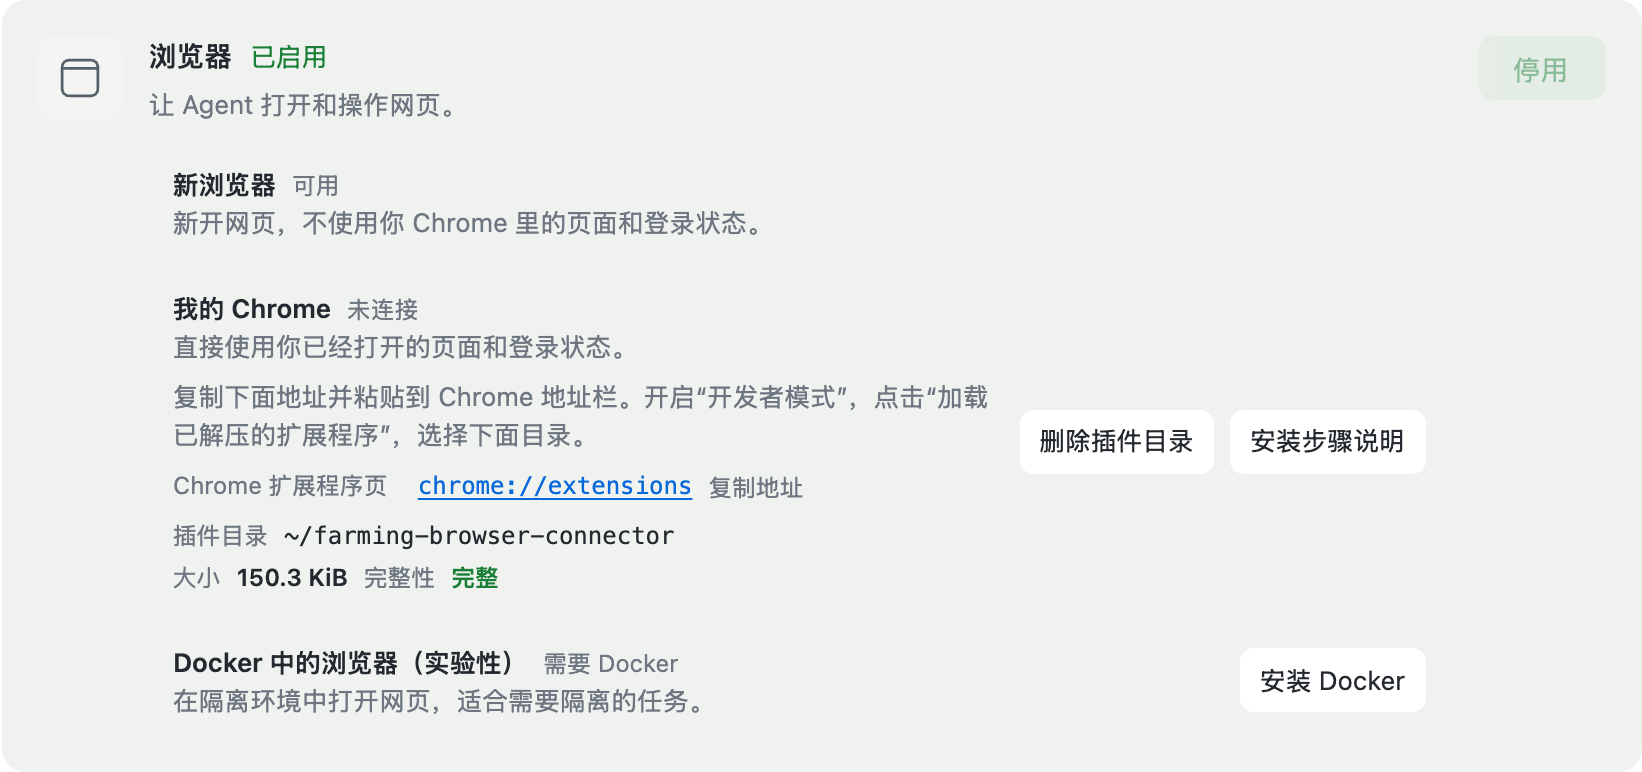
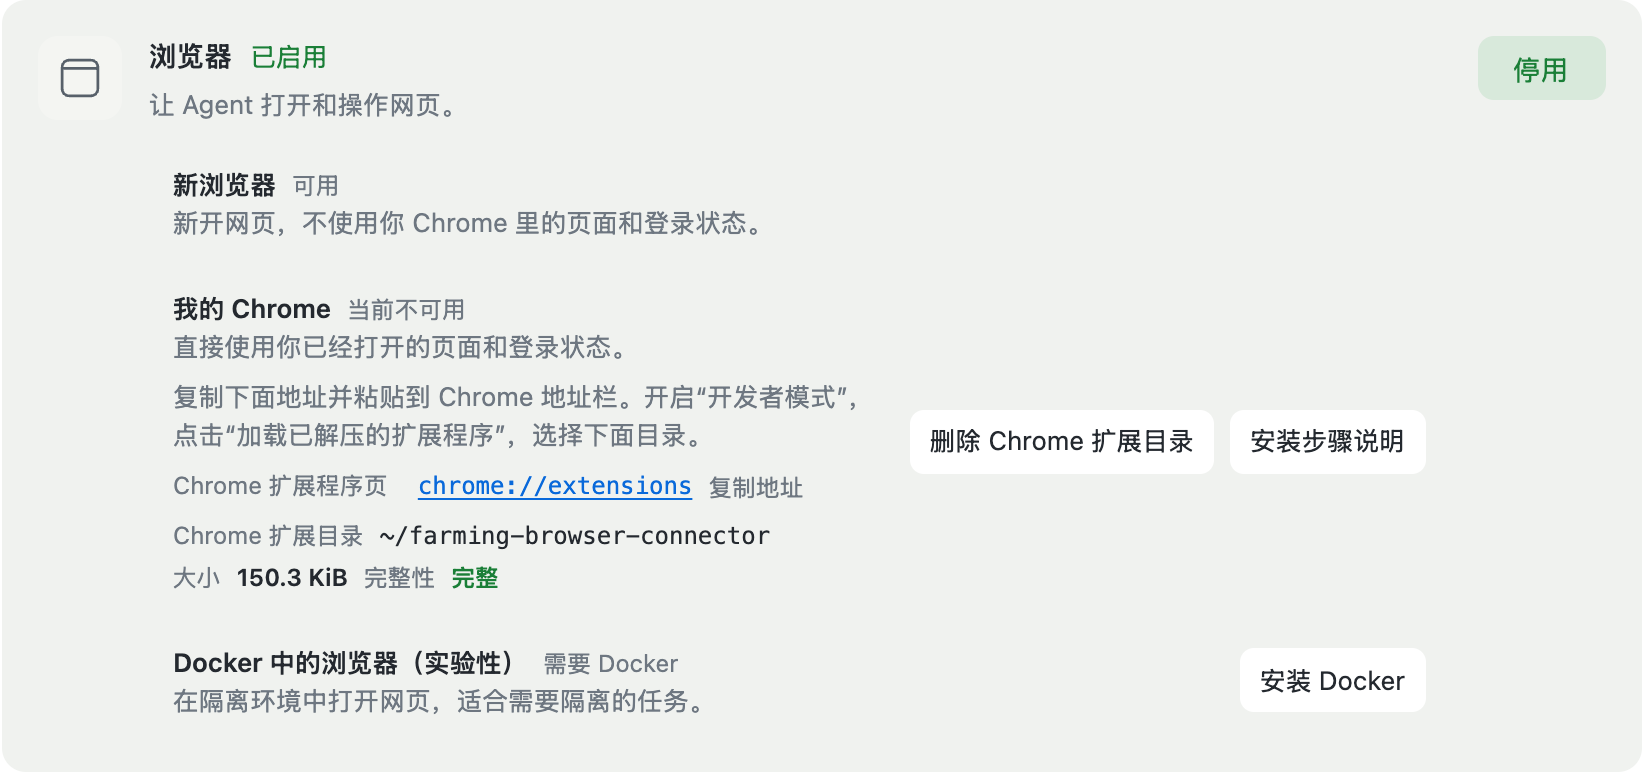
feat(plugins): auto-detect Chrome connector availability

diff --git a/src/components/code/PluginsPanel.tsx b/src/components/code/PluginsPanel.tsx
@@ -264,11 +264,14 @@ function pluginCopy(language: UiLanguage) {
       : 'Opens webpages in an isolated environment for tasks that need separation.',
     browserChoice: zh ? '浏览器方式' : 'Browser options',
     ready: zh ? '可用' : 'Available',
-    notReady: zh ? '未连接' : 'Not connected',
-    prepareConnectorDirectory: zh ? '准备插件目录' : 'Prepare extension folder',
-    removeConnectorDirectory: zh ? '删除插件目录' : 'Remove extension folder',
+    notReady: zh ? '当前不可用' : 'Currently unavailable',
+    prepareConnectorDirectory: zh ? '准备 Chrome 扩展目录' : 'Prepare Chrome extension folder',
+    removeConnectorDirectory: zh ? '删除 Chrome 扩展目录' : 'Remove Chrome extension folder',
+    confirmRemoveConnectorDirectory: zh
+      ? '删除后，Chrome 中已加载的 Farming Browser Connector 将无法继续使用。请先在 Chrome 扩展程序页删除扩展。仍要删除目录吗？'
+      : 'Removing this folder makes the loaded Farming Browser Connector unavailable in Chrome. Remove the extension from Chrome first. Remove the folder anyway?',
     connectorGuide: zh ? '安装步骤说明' : 'Installation steps',
-    connectorDirectory: zh ? '插件目录' : 'Extension folder',
+    connectorDirectory: zh ? 'Chrome 扩展目录' : 'Chrome extension folder',
     connectorExtensionsPage: zh ? 'Chrome 扩展程序页' : 'Chrome Extensions page',
     connectorCopyAddress: zh ? '复制地址' : 'Copy address',
     connectorAddressCopied: zh ? '已复制' : 'Copied',
@@ -308,7 +311,7 @@ function pluginCopy(language: UiLanguage) {
     enable: zh ? '启用' : 'Enable',
     disable: zh ? '停用' : 'Disable',
     saveFailed: zh ? '浏览器插件设置保存失败' : 'Failed to save Browser plugin settings',
-    computer: 'Computer Use',
+    computer: zh ? 'Computer Use（实验性）' : 'Computer Use (Experimental)',
     computerDescription: zh
       ? '让 Agent 查看并操作桌面，你可以在 Farming 中观察或接管。'
       : 'Let Agents see and operate desktops that you can observe or take over in Farming.',
@@ -769,10 +772,16 @@ export function PluginsPanel({
   }, [capability])
 
   useEffect(() => {
+    if (activeTab !== 'farming') return
     let active = true
     let timer: number | undefined
     setBrowserExtensionStatusError('')
+    const schedule = () => {
+      if (!active || document.visibilityState !== 'visible') return
+      timer = window.setTimeout(() => void load(), 2000)
+    }
     const load = async () => {
+      if (!active || document.visibilityState !== 'visible') return
       try {
         const response = await fetch(appPath('/api/browsers/extension'), { headers: { Accept: 'application/json' } })
         const data = await response.json().catch(() => ({})) as BrowserExtensionCapability & { error?: string }
@@ -792,15 +801,22 @@ export function PluginsPanel({
           caught instanceof Error ? caught.message : copy.extensionStatusFailed,
         )
       } finally {
-        if (active) timer = window.setTimeout(() => void load(), 2000)
+        schedule()
       }
     }
+    const handleVisibilityChange = () => {
+      if (timer !== undefined) window.clearTimeout(timer)
+      timer = undefined
+      if (document.visibilityState === 'visible') void load()
+    }
+    document.addEventListener('visibilitychange', handleVisibilityChange)
     void load()
     return () => {
       active = false
       if (timer !== undefined) window.clearTimeout(timer)
+      document.removeEventListener('visibilitychange', handleVisibilityChange)
     }
-  }, [copy.extensionStatusFailed, onRefreshCapability])
+  }, [activeTab, copy.extensionStatusFailed, onRefreshCapability])
 
   useEffect(() => {
     if (!computerCapability) return
@@ -1068,6 +1084,7 @@ export function PluginsPanel({
   const updateBrowserExtensionDirectory = async () => {
     if (preparingBrowserExtension) return
     const remove = browserExtensionInstalled
+    if (remove && !window.confirm(copy.confirmRemoveConnectorDirectory)) return
     setPreparingBrowserExtension(true)
     setError('')
     try {

diff --git a/tests/e2e/browser-resources.spec.ts b/tests/e2e/browser-resources.spec.ts
@@ -1260,9 +1260,10 @@ test('uses Farming dark colors for the Browser source menu', async ({ page }) =>
 test('shows concurrent Browser sources and existing Chrome setup', async ({ page }, testInfo) => {
   const connectorDirectoryActions: string[] = []
   let connectorDirectoryPrepared = false
+  let connectorConnected = false
   const connectorCapability = () => ({
     installed: connectorDirectoryPrepared,
-    connected: false,
+    connected: connectorConnected,
     extensionPath: '/Users/farming/farming-browser-connector',
     sizeBytes: 196_608,
     integrity: connectorDirectoryPrepared ? 'valid' : 'missing',
@@ -1301,10 +1302,10 @@ test('shows concurrent Browser sources and existing Chrome setup', async ({ page
   const myChrome = browserSources.locator('.code-plugin-browser-source').filter({ hasText: 'My Chrome' })
   const connectorDetails = myChrome.getByTestId('browser-connector-details')
   await expect(connectorDetails).toHaveCount(0)
-  const prepareConnector = myChrome.getByRole('button', { name: 'Prepare extension folder' })
+  const prepareConnector = myChrome.getByRole('button', { name: 'Prepare Chrome extension folder' })
   await expect(prepareConnector).toBeVisible()
   await expect(myChrome.locator('.code-plugin-browser-source-actions > *')).toHaveText([
-    'Prepare extension folder',
+    'Prepare Chrome extension folder',
     'Installation steps',
   ])
   await page.evaluate(() => {
@@ -1319,11 +1320,11 @@ test('shows concurrent Browser sources and existing Chrome setup', async ({ page
   await expect.poll(() => page.evaluate(() => (
     window as typeof window & { __connectorGuideOpened?: number }
   ).__connectorGuideOpened)).toBe(0)
-  const removeConnector = myChrome.getByRole('button', { name: 'Remove extension folder' })
+  const removeConnector = myChrome.getByRole('button', { name: 'Remove Chrome extension folder' })
   await expect(removeConnector).toBeEnabled()
   await expect(connectorDetails).toContainText('Copy the address below into Chrome\'s address bar')
   await expect(connectorDetails).toContainText('Chrome Extensions pagechrome://extensionsCopy address')
-  await expect(connectorDetails).toContainText('Extension folder/Users/farming/farming-browser-connector')
+  await expect(connectorDetails).toContainText('Chrome extension folder/Users/farming/farming-browser-connector')
   await expect(connectorDetails).toContainText('Size192.0 KiBIntegrityComplete')
   await page.evaluate(() => {
     Object.assign(window, { __copiedChromeExtensionsAddress: '' })
@@ -1342,9 +1343,19 @@ test('shows concurrent Browser sources and existing Chrome setup', async ({ page
     window as typeof window & { __copiedChromeExtensionsAddress?: string }
   ).__copiedChromeExtensionsAddress)).toBe('chrome://extensions')
   await expect(myChrome.getByRole('link', { name: 'Installation steps' })).toBeVisible()
+  await expect(myChrome.locator('.code-plugin-browser-source-heading')).toContainText('Currently unavailable')
+  connectorConnected = true
+  await expect(myChrome.locator('.code-plugin-browser-source-heading')).toContainText('Available', { timeout: 5_000 })
   const screenshot = testInfo.outputPath('browser-sources.png')
   await pluginsPanel.screenshot({ path: screenshot })
   await testInfo.attach('browser-sources', { path: screenshot, contentType: 'image/png' })
+  connectorConnected = false
+  await expect(myChrome.locator('.code-plugin-browser-source-heading')).toContainText(
+    'Currently unavailable',
+    { timeout: 5_000 },
+  )
+  await expect(removeConnector).toBeVisible()
+  page.once('dialog', dialog => dialog.accept())
   await removeConnector.click()
   await expect.poll(() => connectorDirectoryActions).toEqual(['POST', 'DELETE'])
   await expect(prepareConnector).toBeEnabled()

diff --git a/scripts/capture-product-screenshots.ts b/scripts/capture-product-screenshots.ts
@@ -1142,12 +1142,12 @@ async function captureExistingChromeDocumentationScreenshots(browser, baseUrl) {
         .first()
         .waitFor({ state: 'visible', timeout: 20_000 });
       const prepareConnector = browserPlugin.getByRole('button', {
-        name: en ? 'Prepare extension folder' : '准备插件目录',
+        name: en ? 'Prepare Chrome extension folder' : '准备 Chrome 扩展目录',
       });
       await prepareConnector.waitFor({ state: 'visible', timeout: 20_000 });
       await prepareConnector.click();
       await browserPlugin.getByRole('button', {
-        name: en ? 'Remove extension folder' : '删除插件目录',
+        name: en ? 'Remove Chrome extension folder' : '删除 Chrome 扩展目录',
       }).waitFor({ state: 'visible', timeout: 20_000 });
       const connectorPath = browserPlugin.getByTestId('browser-connector-directory');
       await connectorPath.waitFor({ state: 'visible', timeout: 20_000 });

diff --git a/tests/e2e/computer-resources.spec.ts b/tests/e2e/computer-resources.spec.ts
@@ -186,7 +186,7 @@ test('shows an Agent-owned Desktop only when present and switches Viewer control
   await expect.poll(() => browserCapabilityRequests).toBeGreaterThan(browserRequestsBeforePlugins)
   await expect.poll(() => computerCapabilityRequests).toBeGreaterThan(computerRequestsBeforePlugins)
   const computerPlugin = page.getByTestId('code-plugin-computer')
-  await expect(computerPlugin.getByRole('heading', { name: 'Computer Use', exact: true })).toBeVisible()
+  await expect(computerPlugin.getByRole('heading', { name: 'Computer Use (Experimental)', exact: true })).toBeVisible()
   await expect(computerPlugin.locator('.code-plugin-card-icon svg')).toHaveCount(1)
   const computerPluginScreenshot = testInfo.outputPath('computer-use-plugin.png')
   await computerPlugin.screenshot({ path: computerPluginScreenshot })

diff --git a/docs/products/code/chrome-extension-browser.md b/docs/products/code/chrome-extension-browser.md
@@ -9,7 +9,7 @@ The extension is included with Farming; there is nothing else to download.
 
 ## First-Time Setup
 
-1. In Farming, open **Plugins → Browser → My Chrome** and click **Prepare extension folder**. Only then does
+1. In Farming, open **Plugins → Browser → My Chrome** and click **Prepare Chrome extension folder**. Only then does
    Farming prepare the **farming-browser-connector** directory; repeated clicks reuse the same
    directory. **Installation steps** is a separate action and does not open automatically.
 2. Open `chrome://extensions`, enable **Developer mode**, and choose **Load unpacked**.
@@ -28,14 +28,17 @@ the Farming Browser Resource leaves the user's Chrome tab open. Incognito,
 
 To remove the extension, open `chrome://extensions`, find **Farming Browser
 Connector**, click **Remove**, and confirm.
-Then return to **Plugins → Browser → My Chrome** and click **Remove extension folder**. This removes only
-the Farming-created folder link; it is safe to prepare again later.
+Then return to **Plugins → Browser → My Chrome** and click **Remove Chrome extension folder**. This removes only
+the Farming-created folder link; it is safe to prepare again later. This is not a temporary folder: Chrome continues loading the
+extension from it, so remove the extension from Chrome first.
 
-Farming does not create this directory at startup. After the user clicks **Prepare extension folder**, Farming creates
+Farming does not create this directory at startup. After the user clicks **Prepare Chrome extension folder**, Farming creates
 a visible link to the bundled extension without copying a second code tree. CLI `extension path`
 and `extension status` commands expose the path and connection state. After preparation, the My Chrome row shows
 the copyable `chrome://extensions` address, folder path, size, integrity, and a short installation hint. Chrome installation and
-removal still require user confirmation.
+removal still require user confirmation. While the Farming plug-ins page is visible, it checks the Connector handshake every two
+seconds and automatically changes My Chrome between **Available** and **Currently unavailable**. The check pauses when the page is
+hidden or the user leaves the Farming tab.
 
 Pair only with a trusted Farming instance.
 

diff --git a/docs/products/code/chrome-extension-browser.zh_cn.md b/docs/products/code/chrome-extension-browser.zh_cn.md
@@ -8,7 +8,7 @@ Farming Browser 是浏览器能力；Farming Browser Connector 是安装在 Chro
 
 ## 首次安装
 
-1. 在 Farming 的“插件 → 浏览器 → 我的 Chrome”中点击**准备插件目录**。Farming 只在此时准备
+1. 在 Farming 的“插件 → 浏览器 → 我的 Chrome”中点击**准备 Chrome 扩展目录**。Farming 只在此时准备
    **farming-browser-connector** 目录；重复点击不会创建重复目录。**安装步骤说明**是旁边的独立入口，
    不会自动打开。
 2. 打开 `chrome://extensions`，开启**开发者模式**，选择**加载已解压的扩展程序**。
@@ -24,14 +24,15 @@ Farming Browser 是浏览器能力；Farming Browser Connector 是安装在 Chro
 和其他受限页面不可用。
 
 不再使用时，打开 `chrome://extensions`，找到 **Farming Browser Connector**，点击**删除**并确认。
-然后返回“插件 → 浏览器 → 我的 Chrome”，点击**删除插件目录**。该操作只删除 Farming 创建的目录链接，
-以后仍可再次准备。
+然后返回“插件 → 浏览器 → 我的 Chrome”，点击**删除 Chrome 扩展目录**。该操作只删除 Farming 创建的目录链接，
+以后仍可再次准备。这个目录不是临时目录；Chrome 会持续从中加载扩展文件，因此必须先从 Chrome 删除扩展。
 
-Farming 不会在启动时创建这个目录。用户点击**准备插件目录**后，Farming 才会在可见目录建立指向
+Farming 不会在启动时创建这个目录。用户点击**准备 Chrome 扩展目录**后，Farming 才会在可见目录建立指向
 包内扩展的链接，不会复制第二份代码。CLI 的 `extension path` 和 `extension status` 用于
 查看目录和连接状态。准备完成后，“我的 Chrome”行显示可复制的 `chrome://extensions` 地址、
 插件目录、大小、完整性和简短安装提示。
-安装和删除必须由用户在 Chrome 中确认。
+安装和删除必须由用户在 Chrome 中确认。当 Farming 插件页可见时，页面每两秒检查一次 Connector 握手，
+自动将“我的 Chrome”更新为**可用**或**当前不可用**；页面进入后台或用户离开 Farming 标签页后停止检查。
 
 只连接可信的 Farming。
 

diff --git a/docs-site/en/browser/existing-chrome.md b/docs-site/en/browser/existing-chrome.md
@@ -5,7 +5,7 @@ your Chrome. Farming Browser can use its other browsers without this connector.
 
 ## Install
 
-First click **Prepare extension folder** under **Plugins → Browser → My Chrome** in Farming.
+First click **Prepare Chrome extension folder** under **Plugins → Browser → My Chrome** in Farming.
 Farming then shows the Chrome Extensions address, folder, size, and integrity. Click the address to copy it, then paste it into Chrome's address bar.
 
 ![Prepare the connector in Farming](/en/assets/existing-chrome-install.png)
@@ -23,6 +23,8 @@ Farming then shows the Chrome Extensions address, folder, size, and integrity. C
 After connection, Agents can find and directly use any ordinary page already
 open in this Chrome. No per-page click is required. Stopping Farming Browser
 leaves the Chrome page open.
+While the Farming Plugins page is visible, My Chrome automatically shows **Available** or **Currently unavailable**;
+no manual test is needed.
 
 ## Remove
 
@@ -30,5 +32,6 @@ Open `chrome://extensions`, find **Farming Browser Connector**, click **Remove**
 
 ![Remove Farming Browser Connector](/en/assets/existing-chrome-remove.png)
 
-Return to **Plugins → Browser → My Chrome** in Farming and click **Remove extension folder** to clean up
-the prepared folder entry.
+Return to **Plugins → Browser → My Chrome** in Farming and click **Remove Chrome extension folder** to clean up
+the prepared folder entry. This is not a temporary folder: Chrome continues loading the extension from it. Remove the
+extension from Chrome before removing the folder.

diff --git a/docs-site/cn/browser/existing-chrome.md b/docs-site/cn/browser/existing-chrome.md
@@ -5,7 +5,7 @@
 
 ## 安装
 
-先在 Farming 的“插件 → 浏览器 → 我的 Chrome”中点击**准备插件目录**。
+先在 Farming 的“插件 → 浏览器 → 我的 Chrome”中点击**准备 Chrome 扩展目录**。
 准备后，这里会显示 Chrome 扩展程序页地址、插件目录、大小和完整性。点击地址即可复制，再粘贴到 Chrome 地址栏打开。
 
 ![在 Farming 中准备连接扩展](/cn/assets/existing-chrome-install.png)
@@ -21,6 +21,7 @@
 
 连接后，Agent 可以查找并直接使用这个 Chrome 中任意已经打开的普通页面，无需逐页点击。
 停止 Farming Browser 不会关闭 Chrome 原页面。
+保持 Farming 插件页可见时，“我的 Chrome”会自动显示**可用**或**当前不可用**，不需要手动测试。
 
 ## 删除
 
@@ -28,4 +29,5 @@
 
 ![删除 Farming Browser Connector](/cn/assets/existing-chrome-remove.png)
 
-返回 Farming 的“插件 → 浏览器 → 我的 Chrome”，点击**删除插件目录**，即可清理准备好的目录入口。
+返回 Farming 的“插件 → 浏览器 → 我的 Chrome”，点击**删除 Chrome 扩展目录**，即可清理准备好的目录入口。
+这个目录不是临时目录；Chrome 会持续从中加载扩展文件。请先从 Chrome 删除扩展，再删除目录。

diff --git a/docs-site/en/plugins/overview.md b/docs-site/en/plugins/overview.md
@@ -24,7 +24,7 @@ Continue with [Manage multiple Agent Homes](./agent-homes).
 
 <div class="docs-card-grid">
   <a class="docs-card" href="../browser/overview"><strong>Farming Browser</strong><span>Let a person and Agent view and operate the same web page.</span></a>
-  <a class="docs-card" href="../experimental/computer-use"><strong>Computer Use</strong><span>Experimental full-desktop operation and control handoff.</span></a>
+  <a class="docs-card" href="../experimental/computer-use"><strong>Computer Use (Experimental)</strong><span>Full-desktop operation and control handoff.</span></a>
   <a class="docs-card" href="../experimental/language-server"><strong>Language Server</strong><span>Experimental definitions, references, symbols, and diagnostics.</span></a>
   <a class="docs-card" href="../experimental/desktop"><strong>Farming Desktop</strong><span>Experimentally connect to and switch among trusted Farming backends.</span></a>
 </div>

diff --git a/docs-site/cn/plugins/overview.md b/docs-site/cn/plugins/overview.md
@@ -28,7 +28,7 @@ description: 了解 Farming 插件页面中的内置能力、Agent Homes、Agent
     <span>让用户与 Agent 查看和操作同一个浏览器页面。</span>
   </a>
   <a class="docs-card" href="../experimental/computer-use">
-    <strong>Computer Use</strong>
+    <strong>Computer Use（实验性）</strong>
     <span>实验性完整桌面操作与控制权交接。</span>
   </a>
   <a class="docs-card" href="../experimental/language-server">

diff --git a/docs/products/code/computer-use.md b/docs/products/code/computer-use.md
@@ -1,4 +1,4 @@
-# Farming Computer Use
+# Farming Computer Use (Experimental)
 
 > Chinese version: [computer-use.zh_cn.md](./computer-use.zh_cn.md)
 

diff --git a/docs/products/code/computer-use.zh_cn.md b/docs/products/code/computer-use.zh_cn.md
@@ -1,4 +1,4 @@
-# Farming Computer Use
+# Farming Computer Use（实验性）
 
 > English version: [computer-use.md](./computer-use.md)
 
